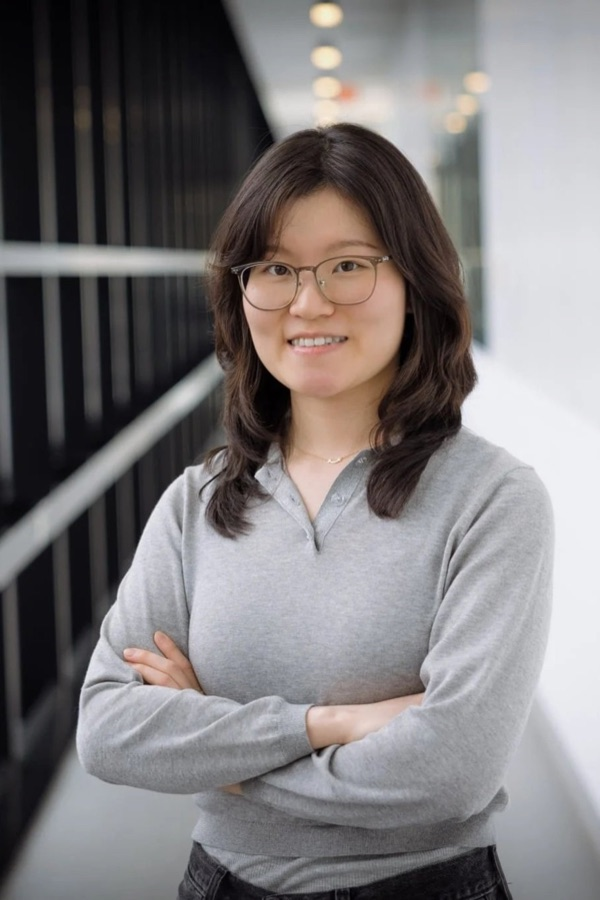
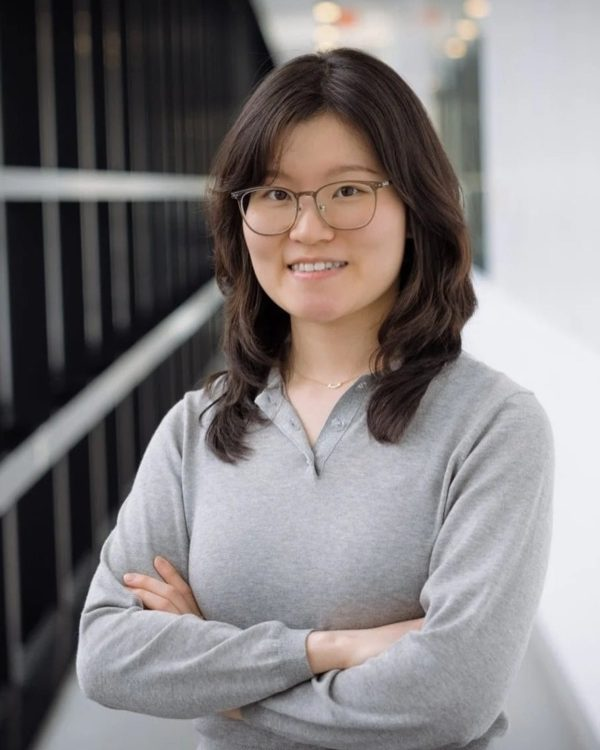
Audit fixes: editor error announcements, lighter team photos, taller related links
- Editor: errors use role=alert, mark fields aria-invalid and move focus to the
  first problem (also for the token); 20px checkbox; reduced-motion scroll;
  crest size set; portraits crop to the cards' 4:5 framing at 600x750
- Team photos re-saved at 600x750 and Simon's portrait at 720x720 (1.1 MB -> 0.56 MB)
- Related-news links on post pages are at least 44px tall

diff --git a/admin/index.html b/admin/index.html
@@ -30,6 +30,7 @@ if (location.protocol === "http:" && /(^|\.)wisnovskylab\.ca$/.test(location.hos
   header.top .name{font-weight:600}
   header.top .name span{color:var(--ink-3);font-weight:400}
   header.top .right{margin-left:auto;display:flex;gap:16px;align-items:center;flex-wrap:wrap;font-size:.94rem;color:var(--ink-3)}
+  header.top .right a{padding-block:12px}
   .test{background:var(--warn-bg);border-bottom:1px solid #e9d48a;font-size:.94rem}
   .test .wrap{padding-block:8px}
 
@@ -71,6 +72,8 @@ if (location.protocol === "http:" && /(^|\.)wisnovskylab\.ca$/.test(location.hos
   input[type=text],input[type=number],input[type=month],input[type=password],input[type=url],select,textarea{
     width:100%;font:inherit;color:var(--ink);background:#fff;border:1px solid var(--line-strong);border-radius:var(--radius);padding:9px 11px;min-height:44px}
   textarea{resize:vertical;line-height:1.45}
+  [aria-invalid="true"]{border-color:var(--err);box-shadow:0 0 0 1px var(--err)}
+  input[type=checkbox]{width:20px;height:20px;margin:0 8px 0 0;vertical-align:-4px;accent-color:var(--ubc)}
   .row{display:flex;gap:8px;align-items:stretch}
   .row > input{flex:1}
   .two{display:grid;grid-template-columns:1fr 1fr;gap:12px}
@@ -120,7 +123,7 @@ if (location.protocol === "http:" && /(^|\.)wisnovskylab\.ca$/.test(location.hos
 <body>
 <header class="top">
   <div class="wrap">
-    <img src="../images/web/ubc-crest.png" alt="">
+    <img src="../images/web/ubc-crest.png" width="99" height="135" alt="">
     <div class="name">Wisnovsky Lab <span>website editor</span></div>
     <div class="right">
       <a href="../" target="_blank" rel="noopener">View the site</a>
@@ -149,15 +152,15 @@ if (location.protocol === "http:" && /(^|\.)wisnovskylab\.ca$/.test(location.hos
       </li>
       <li>Click <b>Generate token</b>, copy the token (it starts with <code>github_pat_</code>) and paste it below.</li>
     </ol>
-    <form id="tokenForm">
+    <form id="tokenForm" novalidate>
       <div class="field">
         <label for="token">Access token</label>
-        <input type="password" id="token" autocomplete="off" spellcheck="false" required>
-        <span class="hint">It stays in this browser and is only ever sent to GitHub.</span>
+        <input type="password" id="token" autocomplete="off" spellcheck="false" required aria-describedby="token-h">
+        <span class="hint" id="token-h">It stays in this browser and is only ever sent to GitHub.</span>
       </div>
       <div class="field"><label class="small"><input type="checkbox" id="remember" checked> Remember on this computer</label></div>
       <div class="actions"><button class="btn primary" id="connect">Connect</button></div>
-      <p class="inline-err" id="tokenErr" hidden></p>
+      <p class="inline-err" id="tokenErr" role="alert" hidden></p>
     </form>
     <p class="muted small" style="margin-top:28px">If GitHub says the token is waiting for approval, an owner of the organization can approve it under Organization settings → Personal access tokens → Pending requests.</p>
   </section>
@@ -252,7 +255,7 @@ const SECTIONS = {
       {k: "_group", label: "Group", type: "select", req: true, options: [["staff", "Postdoctoral fellows & staff"], ["students", "Graduate students"]]},
       {k: "name", label: "Name", req: true},
       {k: "role", label: "Role", req: true, list: ["PhD Candidate", "PhD Student", "MSc Student", "Postdoctoral Fellow", "Research Technician", "Research Associate", "Lab Manager"]},
-      {k: "photo", label: "Portrait", type: "photo", req: true, max: [800, 1000], file: v => `team-${E.slugify(v.name)}`, hint: "Shown cropped to a 4:5 portrait, so a head-and-shoulders photo works best."}
+      {k: "photo", label: "Portrait", type: "photo", req: true, max: [600, 750], aspect: 4 / 5, file: v => `team-${E.slugify(v.name)}`, hint: "Cropped from the centre to a 4:5 portrait, so a head-and-shoulders photo works best."}
     ]
   },
   alumni: {
@@ -301,11 +304,32 @@ function makeForm(secKey, mount) {
   form.className = "entry"; form.noValidate = true;
   form.innerHTML = `<div class="form-head"><h2>Add a ${sec.noun}</h2><button type="button" class="btn link" data-cancel hidden>Cancel editing</button></div>
     ${sec.fields.map(f => fieldHTML(f, `${secKey}-${f.k}`)).join("")}
-    <div class="actions"><button class="btn primary" data-save>Save</button></div><p class="inline-err" hidden></p>`;
+    <div class="actions"><button class="btn primary" data-save>Save</button></div><p class="inline-err" id="${secKey}-err" role="alert" hidden></p>`;
   mount.append(form);
   let editing = null, shrunk = {};
 
   const el = k => form.elements[k];
+  const errBox = form.querySelector(".inline-err");
+  function clearErrors() {
+    errBox.hidden = true; errBox.textContent = "";
+    form.querySelectorAll("[aria-invalid]").forEach(i => {
+      i.removeAttribute("aria-invalid");
+      i.setAttribute("aria-describedby", (i.getAttribute("aria-describedby") || "").replace(errBox.id, "").trim());
+      if (!i.getAttribute("aria-describedby")) i.removeAttribute("aria-describedby");
+    });
+  }
+  /* shows the message (read out by screen readers), marks the fields and moves focus to the first */
+  function fail(keys, msg) {
+    clearErrors();
+    errBox.hidden = false; errBox.textContent = msg;
+    const inputs = keys.map(k => el(k)).filter(Boolean);
+    inputs.forEach(i => {
+      i.setAttribute("aria-invalid", "true");
+      i.setAttribute("aria-describedby", ((i.getAttribute("aria-describedby") || "") + " " + errBox.id).trim());
+    });
+    if (inputs[0]) inputs[0].focus();
+  }
+  form.addEventListener("input", e => { if (e.target.getAttribute("aria-invalid")) { e.target.removeAttribute("aria-invalid"); } });
   const reset = () => {
     form.reset(); editing = null; shrunk = {};
     form.classList.remove("editing");
@@ -316,7 +340,7 @@ function makeForm(secKey, mount) {
     form.querySelectorAll(".photo-info").forEach(s => s.textContent = "");
     if (secKey === "news") el("date").value = thisMonth;
     if (el("year")) el("year").value = thisYear;
-    form.querySelector(".inline-err").hidden = true;
+    clearErrors();
   };
   const edit = (entry, listKey) => {
     reset(); editing = {entry, listKey};
@@ -331,7 +355,7 @@ function makeForm(secKey, mount) {
         if (v) { img.src = "../images/web/" + encodeURI(v); img.hidden = false; form.querySelector(".photo-info").textContent = "Current photo. Choose a file to replace it."; }
       } else if (el(f.k)) el(f.k).value = f.paragraphs && Array.isArray(v) ? v.join("\n\n") : (v ?? "");
     }
-    form.scrollIntoView({block: "start", behavior: "smooth"});
+    form.scrollIntoView({block: "start", behavior: matchMedia("(prefers-reduced-motion: reduce)").matches ? "auto" : "smooth"});
     (form.querySelector("input:not([type=file]),textarea,select") || form).focus({preventScroll: true});
   };
   form.querySelector("[data-cancel]").onclick = reset;
@@ -343,7 +367,7 @@ function makeForm(secKey, mount) {
     if (!inp.files[0]) return;
     info.textContent = "Preparing photo…";
     try {
-      const s = await E.shrinkPhoto(inp.files[0], ...f.max);
+      const s = await E.shrinkPhoto(inp.files[0], ...f.max, f.aspect);
       shrunk[inp.name] = s; img.src = s.url; img.hidden = false;
       info.textContent = `Ready: ${s.width} × ${s.height} px, ${s.kb} KB.`;
     } catch (e) { info.textContent = ""; inp.value = ""; note("err", esc(e.message)); }
@@ -363,7 +387,7 @@ function makeForm(secKey, mount) {
 
   form.addEventListener("submit", async ev => {
     ev.preventDefault();
-    const err = form.querySelector(".inline-err"); err.hidden = true;
+    clearErrors();
     const v = {};
     for (const f of sec.fields) {
       if (f.type === "photo") continue;
@@ -373,12 +397,11 @@ function makeForm(secKey, mount) {
       if (f.paragraphs) x = x ? x.split(/\n\s*\n/).map(s => s.replace(/\s*\n\s*/g, " ").trim()).filter(Boolean) : [];
       v[f.k] = x;
     }
-    const missing = sec.fields.filter(f => f.req && (f.type === "photo" ? !(shrunk[f.k] || editing?.entry[f.k]) : v[f.k] === "" || v[f.k] == null))
-      .map(f => f.label.replace(/ \(optional\)/, ""));
-    if (missing.length) { err.textContent = "Please fill in: " + missing.join(", ") + "."; err.hidden = false; return; }
-    if (v.year && !/^(19|20)\d\d$/.test(String(v.year))) { err.textContent = "The year should look like " + thisYear + "."; err.hidden = false; return; }
-    if (v.date && !/^(19|20)\d\d(-(0[1-9]|1[0-2]))?$/.test(v.date)) { err.textContent = "The date should look like " + thisMonth + " (year-month) or just " + thisYear + "."; err.hidden = false; return; }
-    if (v.link && !/^(https?:\/\/|#\/|mailto:)/.test(v.link)) { err.textContent = "The button link should start with https:// (or #/ for a page on this site)."; err.hidden = false; return; }
+    const missing = sec.fields.filter(f => f.req && (f.type === "photo" ? !(shrunk[f.k] || editing?.entry[f.k]) : v[f.k] === "" || v[f.k] == null));
+    if (missing.length) return fail(missing.map(f => f.k), "Please fill in: " + missing.map(f => f.label.replace(/ \(optional\)/, "")).join(", ") + ".");
+    if (v.year && !/^(19|20)\d\d$/.test(String(v.year))) return fail(["year"], "The year should look like " + thisYear + ".");
+    if (v.date && !/^(19|20)\d\d(-(0[1-9]|1[0-2]))?$/.test(v.date)) return fail(["date"], "The date should look like " + thisMonth + " (year-month) or just " + thisYear + ".");
+    if (v.link && !/^(https?:\/\/|#\/|mailto:)/.test(v.link)) return fail(["link"], "The button link should start with https:// (or #/ for a page on this site).");
 
     const listKey = v._group || sec.list; delete v._group;
     const old = editing;
@@ -568,17 +591,25 @@ async function start(token, remember) {
 $("#tokenForm").addEventListener("submit", async e => {
   e.preventDefault();
   const t = $("#token").value.trim(), err = $("#tokenErr"); err.hidden = true;
-  if (!t) return;
+  $("#token").removeAttribute("aria-invalid");
+  if (!t) return tokenFail("Paste your access token first.");
   $("#connect").disabled = true;
   try { await start(t, $("#remember").checked); }
-  catch (ex) { err.textContent = friendly(ex); err.hidden = false; $("#signin").hidden = false; $("#app").hidden = true; }
+  catch (ex) { $("#signin").hidden = false; $("#app").hidden = true; tokenFail(friendly(ex)); }
   $("#connect").disabled = false;
 });
+function tokenFail(msg) {
+  const err = $("#tokenErr"), input = $("#token");
+  err.hidden = false; err.textContent = msg;
+  input.setAttribute("aria-invalid", "true"); input.setAttribute("aria-describedby", "token-h tokenErr");
+  input.focus();
+}
+$("#token").addEventListener("input", () => $("#token").removeAttribute("aria-invalid"));
 $("#signout").onclick = () => { store.clear(); location.reload(); };
 
 if (BRANCH !== "main") { $("#testbar").hidden = false; $("#testbar .wrap").textContent = `Test mode: changes are saved to the “${BRANCH}” branch, not the live website.`; }
 const saved0 = store.get();
-if (saved0) start(saved0).catch(ex => { $("#signin").hidden = false; $("#app").hidden = true; $("#tokenErr").textContent = friendly(ex); $("#tokenErr").hidden = false; $("#status").innerHTML = ""; });
+if (saved0) start(saved0).catch(ex => { $("#signin").hidden = false; $("#app").hidden = true; $("#status").innerHTML = ""; tokenFail(friendly(ex)); });
 else $("#signin").hidden = false;
 </script>
 </body>

diff --git a/admin/lib.js b/admin/lib.js
@@ -131,21 +131,27 @@
 
   /* ---------- photos ---------- */
 
-  /* shrinks a photo in the browser: returns a JPEG as base64 plus a preview URL */
-  async function shrinkPhoto(file, maxW, maxH) {
+  /* shrinks a photo in the browser: returns a JPEG as base64 plus a preview URL.
+     With `aspect` (width / height), it first crops the centre to that shape. */
+  async function shrinkPhoto(file, maxW, maxH, aspect) {
     let bmp;
     try { bmp = await createImageBitmap(file, {imageOrientation: "from-image"}); }
     catch (e) {
       throw new Error("This photo couldn't be opened. iPhone HEIC photos need to be saved as JPEG first " +
         "(on a Mac: open in Preview, File → Export, choose JPEG).");
     }
-    const scale = Math.min(1, maxW / bmp.width, maxH / bmp.height);
-    const w = Math.round(bmp.width * scale), h = Math.round(bmp.height * scale);
+    let sx = 0, sy = 0, sw = bmp.width, sh = bmp.height;
+    if (aspect) {
+      if (sw / sh > aspect) { sw = Math.round(sh * aspect); sx = Math.round((bmp.width - sw) / 2); }
+      else { sh = Math.round(sw / aspect); sy = Math.round((bmp.height - sh) / 2); }
+    }
+    const scale = Math.min(1, maxW / sw, maxH / sh);
+    const w = Math.round(sw * scale), h = Math.round(sh * scale);
     const canvas = document.createElement("canvas");
     canvas.width = w; canvas.height = h;
     const ctx = canvas.getContext("2d");
     ctx.fillStyle = "#fff"; ctx.fillRect(0, 0, w, h);   // transparent PNGs get a white background
-    ctx.drawImage(bmp, 0, 0, w, h);
+    ctx.drawImage(bmp, sx, sy, sw, sh, 0, 0, w, h);
     const blob = await new Promise(res => canvas.toBlob(res, "image/jpeg", 0.84));
     const base64 = await new Promise(res => {
       const fr = new FileReader();

diff --git a/index.html b/index.html
@@ -267,7 +267,8 @@ if (location.protocol === "http:" && /(^|\.)wisnovskylab\.ca$/.test(location.hos
   .related{margin-top:72px;padding-top:40px;border-top:1px solid var(--line)}
   .related h2{font-size:var(--fs-h3);margin-bottom:24px}
   .related ul{list-style:none;margin:0;padding:0;display:grid;grid-template-columns:repeat(auto-fill,minmax(200px,1fr));gap:28px}
-  .related li a{display:block;margin:10px 0 6px;color:var(--ink);font-weight:600;line-height:1.3;text-decoration:none}
+  /* padding makes each link at least 44px tall to tap; the negative margins keep the visible spacing as before */
+  .related li a{display:block;padding:11px 0;margin:-1px 0 -5px;color:var(--ink);font-weight:600;line-height:1.3;text-decoration:none}
   .related li a:hover{color:var(--ubc);text-decoration:underline}
   .related time{color:var(--ink-3);font-size:var(--fs-meta)}
   .news-mini li{grid-template-columns:96px 1fr}
@@ -624,7 +625,7 @@ if (location.protocol === "http:" && /(^|\.)wisnovskylab\.ca$/.test(location.hos
     <div class="page-head"><h1>People</h1></div>
 
     <div class="pi" id="pi">
-      <img src="images/web/wisnovskyseminarphoto-cropped.jpg" width="900" height="900" loading="lazy" decoding="async" alt="Portrait of Simon Wisnovsky">
+      <img src="images/web/wisnovskyseminarphoto-cropped.jpg" width="720" height="720" loading="lazy" decoding="async" alt="Portrait of Simon Wisnovsky">
       <div>
         <h2>Simon Wisnovsky, PhD</h2>
         <p class="role"><span>Principal Investigator</span><span>Assistant Professor, Faculty of Pharmaceutical Sciences</span></p>
